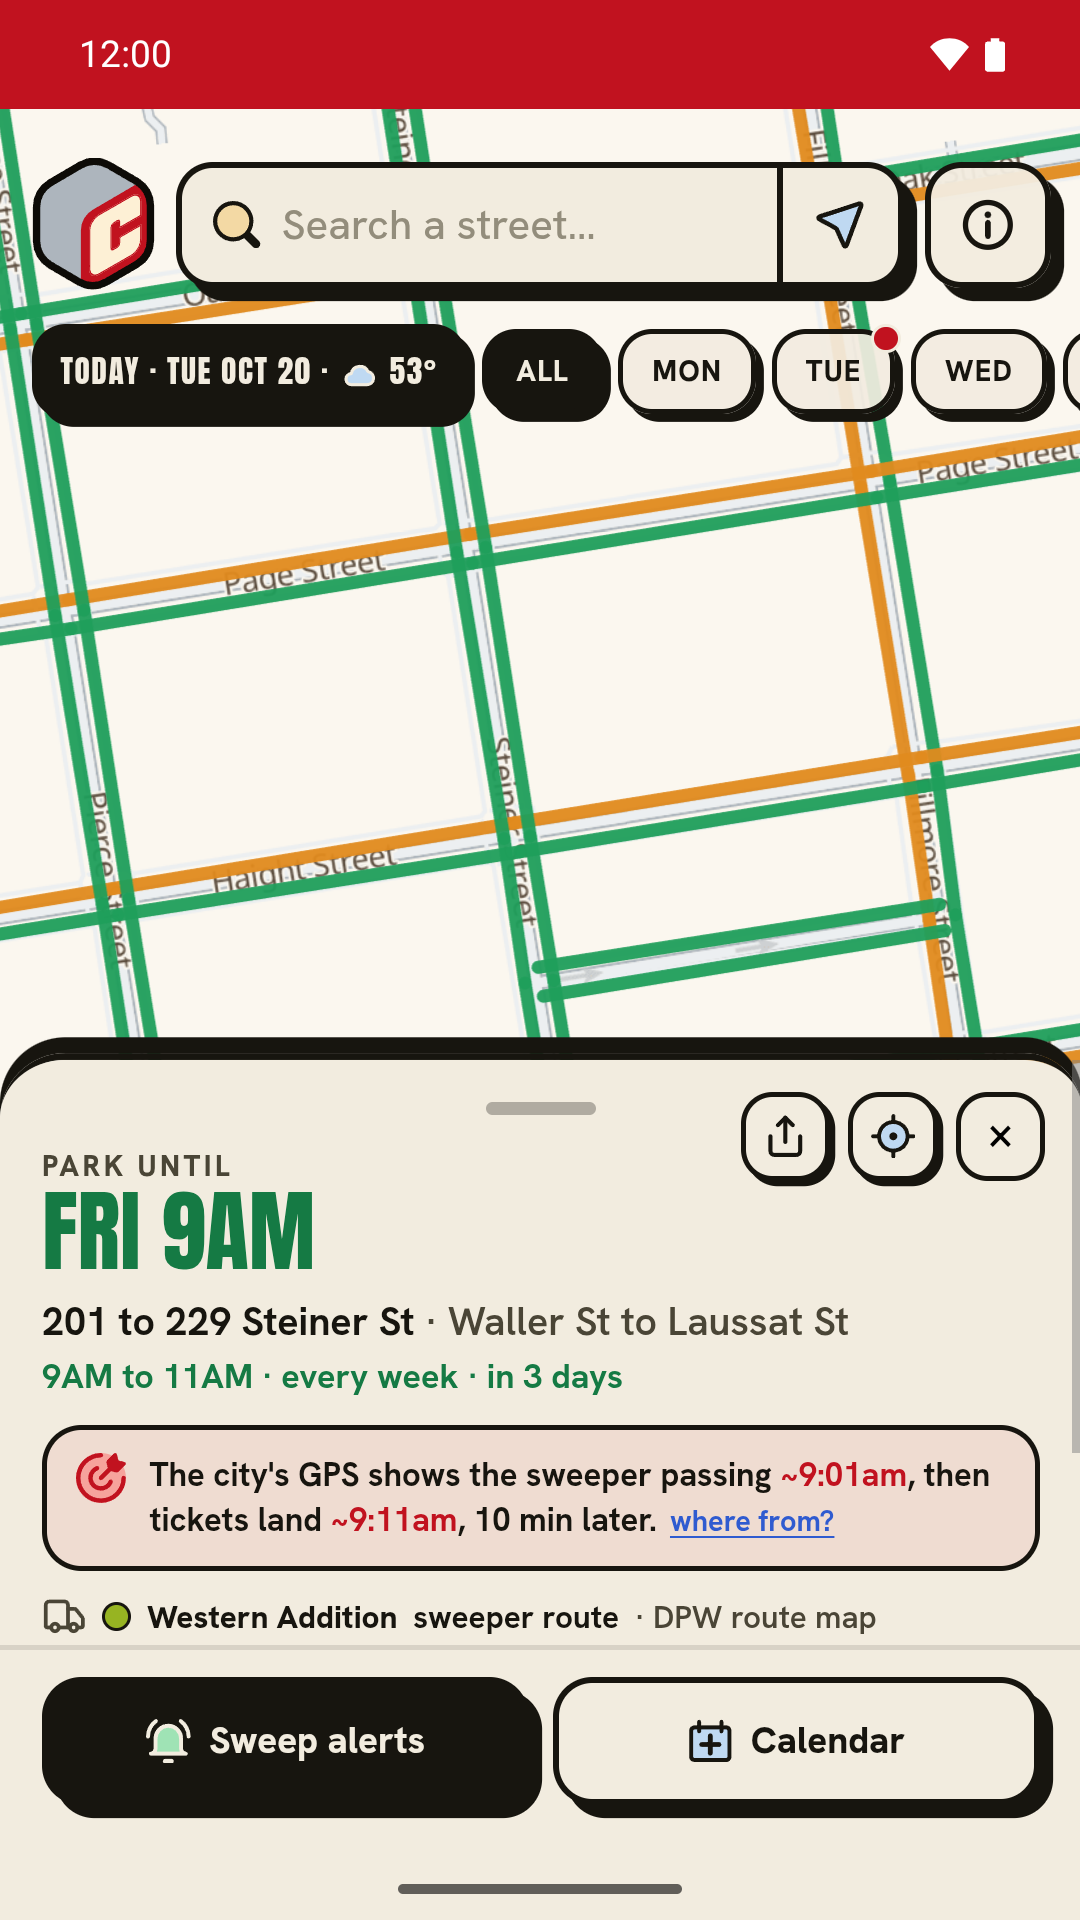
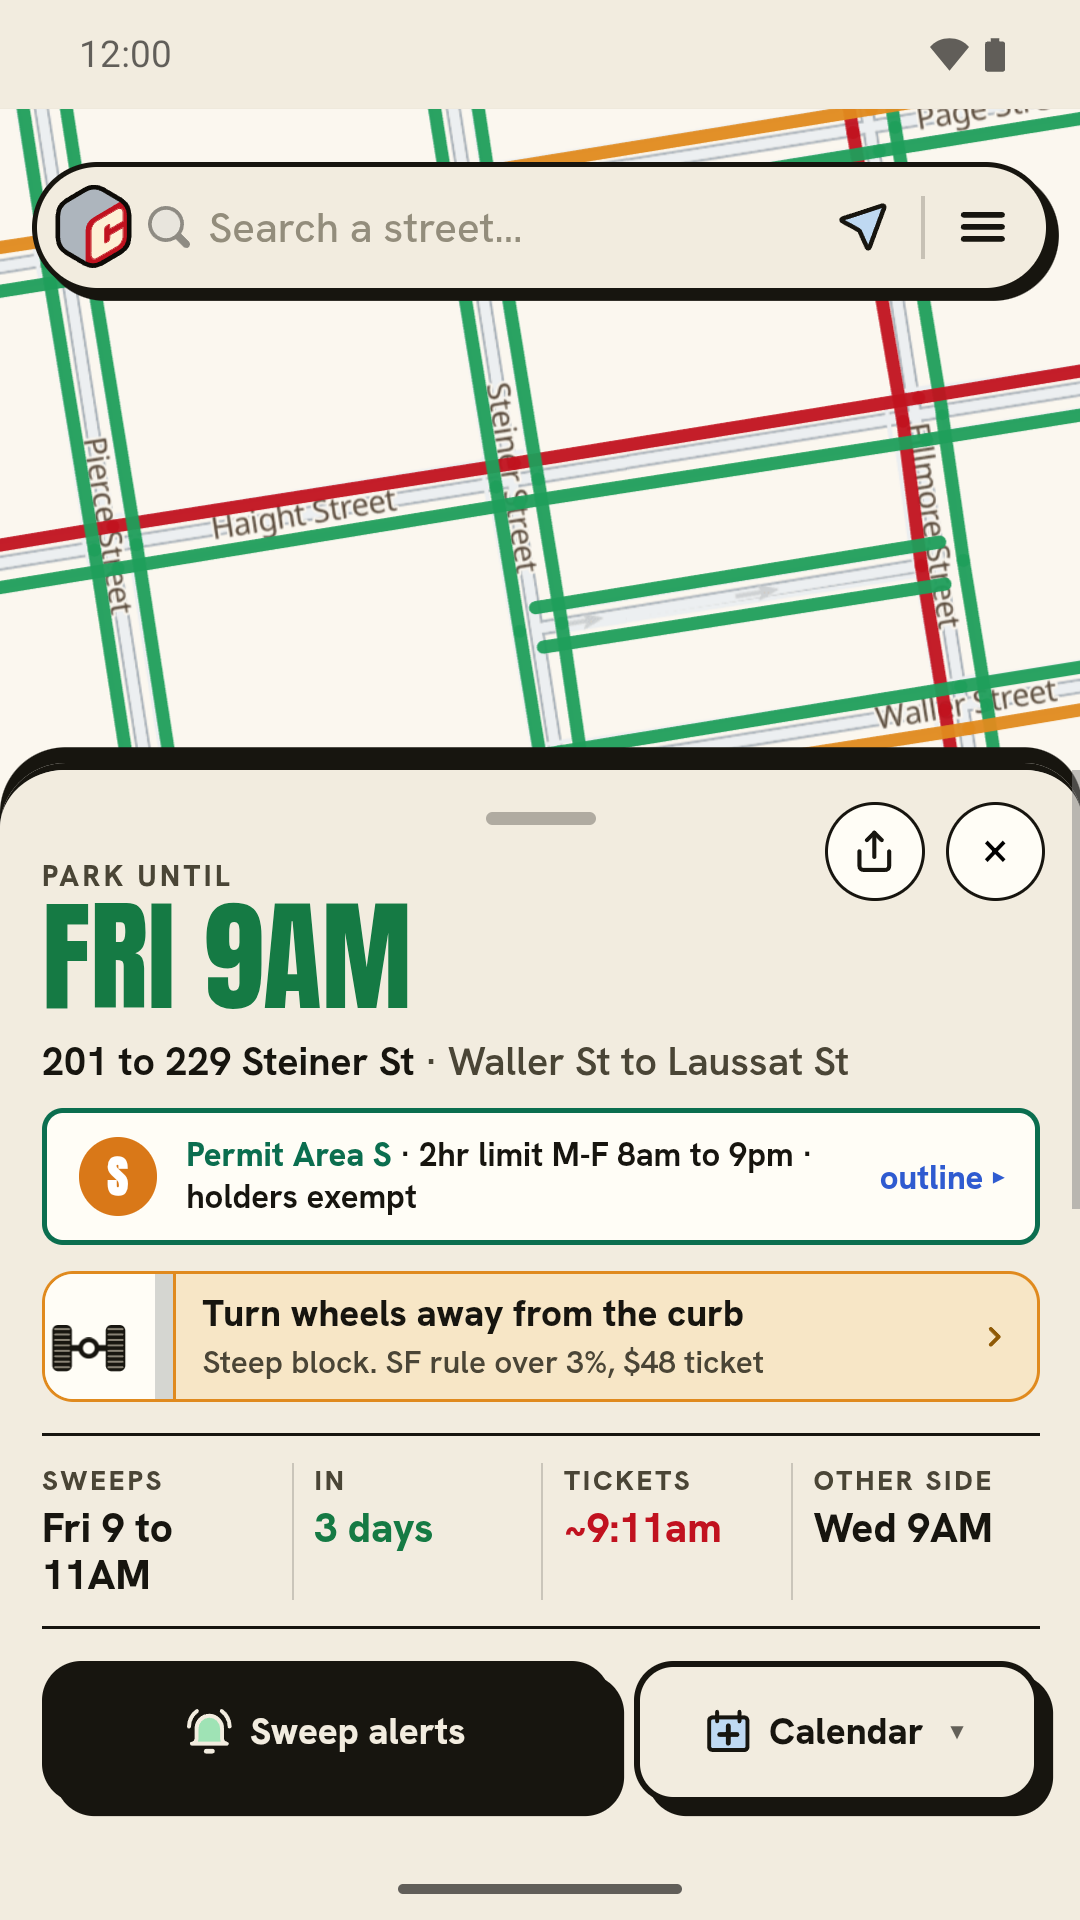
docs(android): the Play listing shows the map first layout
The three phone screenshots on Google Play still showed the old top bar and
day chips, so the listing no longer matched what the app opens to. These are
the four sent for review on 9-Nov-2026: the map, a block card, the same card
with alerts on, and the layers panel open, all taken from the real app on
the emulator at 1080 x 1920.

Claude-Session: https://claude.ai/code/session_01CafTDKp9Rux2tLXYFXm3ZR

diff --git a/android/PLAY-LISTING.md b/android/PLAY-LISTING.md
@@ -9,7 +9,8 @@ The Android app is a Trusted Web Activity of curb.guide (package `guide.curb.and
 **Website:** https://curb.guide · **Email:** hello@curb.guide · **Privacy policy:** https://curb.guide/privacy
 
 **Graphics** (in `play/`): app icon `icon-512.png` (512 x 512), feature graphic `feature-graphic.jpg` (1024 x 500),
-phone screenshots `screenshot-1.png` to `screenshot-3.png` (1080 x 1920, 9:16 as Play requires; real screens from the app on the emulator, demo mode status bar).
+phone screenshots `screenshot-1.png` to `screenshot-4.png` (1080 x 1920, 9:16 as Play requires; real screens from the app on the emulator, demo mode status bar).
+The four show the map first layout and were retaken on 9-Nov-2026: the map, a block card, the same card with alerts on, the layers panel open. Sent for review that day with "Don't label assets" in the AI asset declaration (they are unedited captures of the real app).
 
 ## Full description (4000 max)
 Sources and the government disclaimer were added on 22-Oct-2026: Play rejected the closed test under Misleading Claims, "Missing Source Link for Government Information" (the Full description must link the official source of every piece of government information and say plainly that CURB does not represent a government entity). Keep both in any rewrite.
